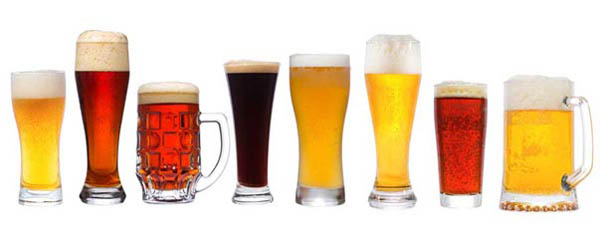
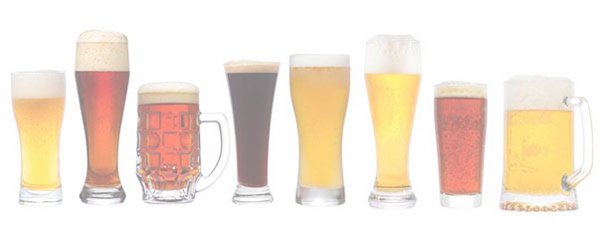
header con image en el fundo !

diff --git a/css/header.css b/css/header.css
@@ -2,17 +2,16 @@
 
 header
 {
-  padding: 20px 0 70px 0;
+	padding: 20px 0 70px 0;
+	background-image:url(../images/slider-magasin-bieres.png);
+	background-position: 0 0, 0 0, -5px -25px, 0 50%;
+	background-repeat: repeat, repeat, no-repeat, no-repeat;
+	background-size: auto, auto, auto, cover;
+	text-align: center;
+	margin-bottom: 50px;
+} 
 
-  background: #2d6360 50% 0 url(huntington.jpg) no-repeat; 
-
-  background-attachment: fixed, fixed, fixed, scroll;
-  background-image: url(contours.png), url(noise.png), url(gridlines.png), url(huntington.jpg);
-  background-position: 0 0, 0 0, -5px -25px, 0 50%;
-  background-repeat: repeat, repeat, repeat, no-repeat;
-  background-size: auto, auto, auto, cover;
-  text-align: center;
-  margin-bottom: 50px;
+#header{
 
 }
 

diff --git a/css/Style.css b/css/Style.css
@@ -7,7 +7,6 @@ body
  	border-radius: 5px 5px;
 	border: 5px 5px;
 	font-family: verdana;
-	background-color: #E0FFFF;
 
 }
 

diff --git a/Inscription.php b/Inscription.php
@@ -3,14 +3,12 @@
 <head>
     <title> Beer paradise </title>
     <meta http-equiv="Content-Type" content="text/html; charset=UTF-8"/>
-    <link href="Style.css" rel="stylesheet" type="text/css" />    <!-- lors du placement des fichiers dans les dossiers, nous avons du indiquer le chemin du fichier CSS -->
-    <link href="header.css" rel="stylesheet" type="text/css" />
+    <link href="css/Style.css" rel="stylesheet" type="text/css" /> 
+    <link href="css/header.css" rel="stylesheet" type="text/css" />
+    <link href="css/login.css" rel="stylesheet" type="text/css" />
 
-// <script language="javascript" src="js/verif.js" type="text/javascript"></script>
+<!-- <script language="javascript" src="js/verif.js" type="text/javascript"></script> -->
 
-
-/*
- */
 
 <link rel="stylesheet" href="//code.jquery.com/ui/1.11.4/themes/smoothness/jquery-ui.css">
 <script src="//code.jquery.com/jquery-1.10.2.js"></script>

diff --git a/Products.php b/Products.php
@@ -7,8 +7,9 @@ session_start();
 <head>
 <title> Beer paradise </title>
 <meta http-equiv="Content-Type" content="text/html; charset=UTF-8"/>
-<link href="Style.css" rel="stylesheet" type="text/css" />  
-<link href="header.css" rel="stylesheet" type="text/css" /> 
+<link href="css/Style.css" rel="stylesheet" type="text/css" />  
+<link href="css/header.css" rel="stylesheet" type="text/css" /> 
+<link href="css/login.css" rel="stylesheet" type="text/css" /> 
 
 </head>
 

diff --git a/header.php b/header.php
@@ -1,5 +1,5 @@
-<header>
-	<div class="robot"> <img class="robot" alt="Image Caption" src="images/robots.jpg"></div>
+<header id="header">
+	
 	<h1 id="header_title"> Welcome to Beer Paradise </h1>
 <?php
     require 'login.php';
